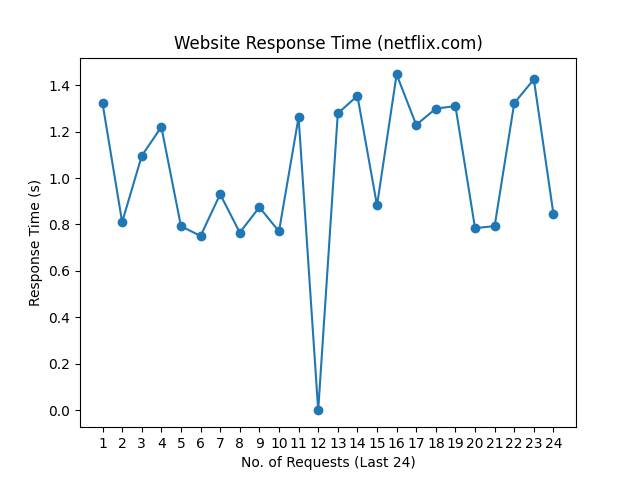
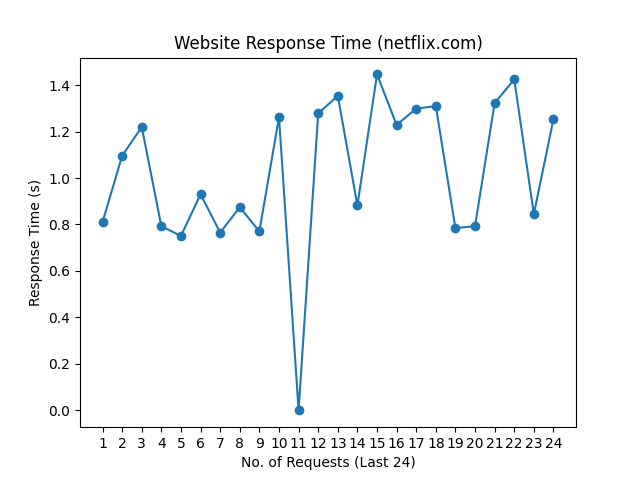
update README.md, history and graph

Changed region(s): [[0.1562, 0.125, 0.875, 0.875]]

diff --git a/README.md b/README.md
@@ -1,10 +1,10 @@
 # Web Monitoring
 
-Last Checked: 18/12/2024 08:21
+Last Checked: 19/12/2024 08:21
 
 | Website | Response Time (s) | Status | Avg Uptime (%) |
 |---------|-------------------|--------|----------------|
 | www.thiswebsiteisdown.net | 0 <br> <img src="graph/thiswebsiteisdown.net.png" alt="Graph" width="200" height="200">  | ❌ Down | 0.00 |
-| www.netflix.com | 0.844677 <br> <img src="graph/netflix.com.png" alt="Graph" width="200" height="200">  | ✅ Up | 99.80 |
-| www.google.com | 0.079814 <br> <img src="graph/google.com.png" alt="Graph" width="200" height="200">  | ✅ Up | 100.00 |
-| www.facebook.com | 0.213931 <br> <img src="graph/facebook.com.png" alt="Graph" width="200" height="200">  | ✅ Up | 100.00 |
+| www.netflix.com | 1.253225 <br> <img src="graph/netflix.com.png" alt="Graph" width="200" height="200">  | ✅ Up | 99.80 |
+| www.google.com | 0.106908 <br> <img src="graph/google.com.png" alt="Graph" width="200" height="200">  | ✅ Up | 100.00 |
+| www.facebook.com | 0.974684 <br> <img src="graph/facebook.com.png" alt="Graph" width="200" height="200">  | ✅ Up | 100.00 |
